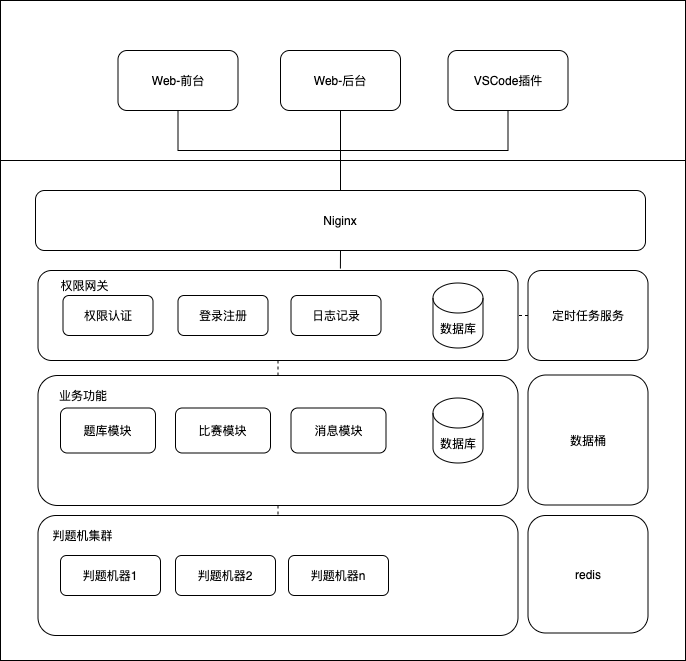
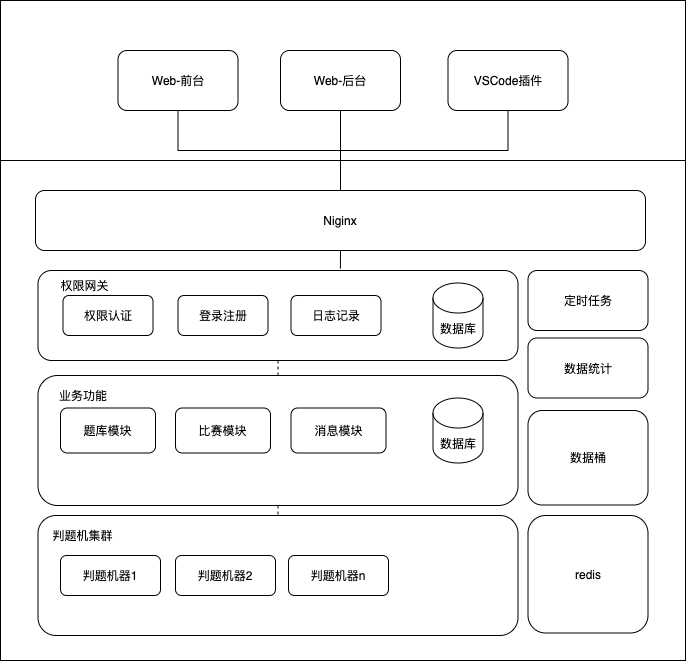
update docs

diff --git a/docs/readme.md b/docs/readme.md
@@ -14,6 +14,10 @@
 
 负责对用户的管理、用户角色的管理、角色权限的管理、角色权限的判断等，并且记录日志统计数据。
 
+### 定时任务服务
+
+处理一些定时的任务。
+
 ### 业务功能
 
 #### 题库模块
@@ -37,7 +41,17 @@
 
 #### 比赛模块
 
-负责
+负责个人赛和团队赛提供服务。
+
+系统默认会创建一个永久的默认个人赛，相当于是排名功能。
+
+#### 消息模块
+
+可以使用邮箱和站内信，向用户之间发送消息。
+
+#### 判题机集群
+
+这里会做一次负载均衡，其他服务只需要调用一个消息队列就可以实现判题了。
 
 ## 数据模型
 
